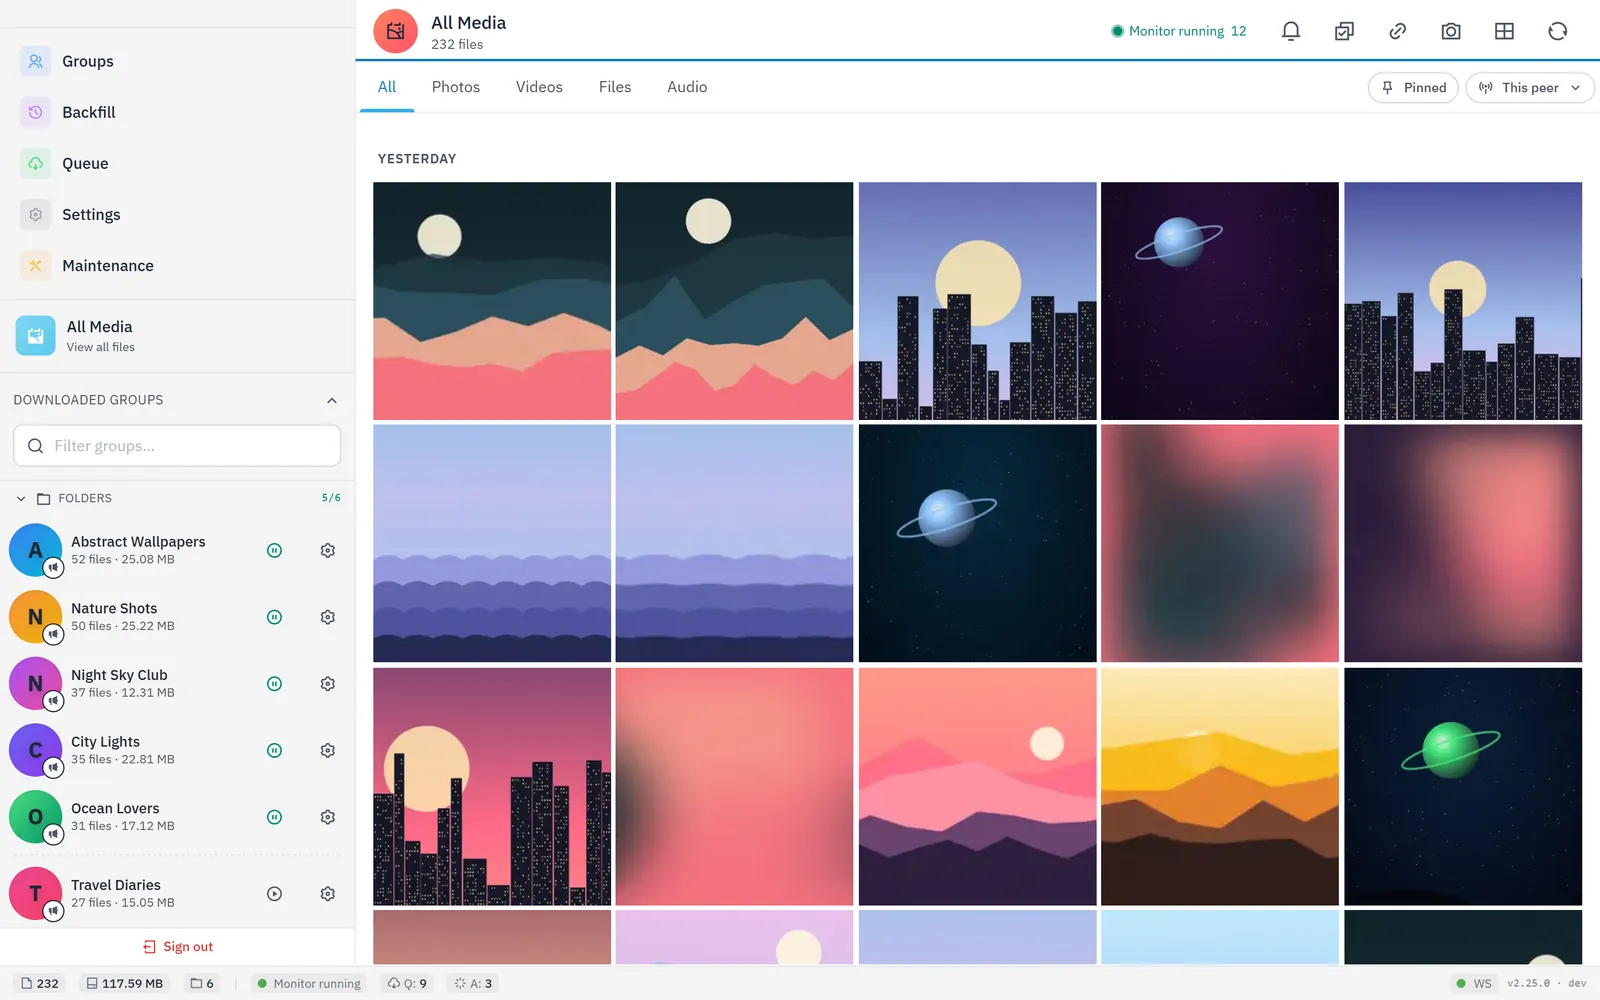
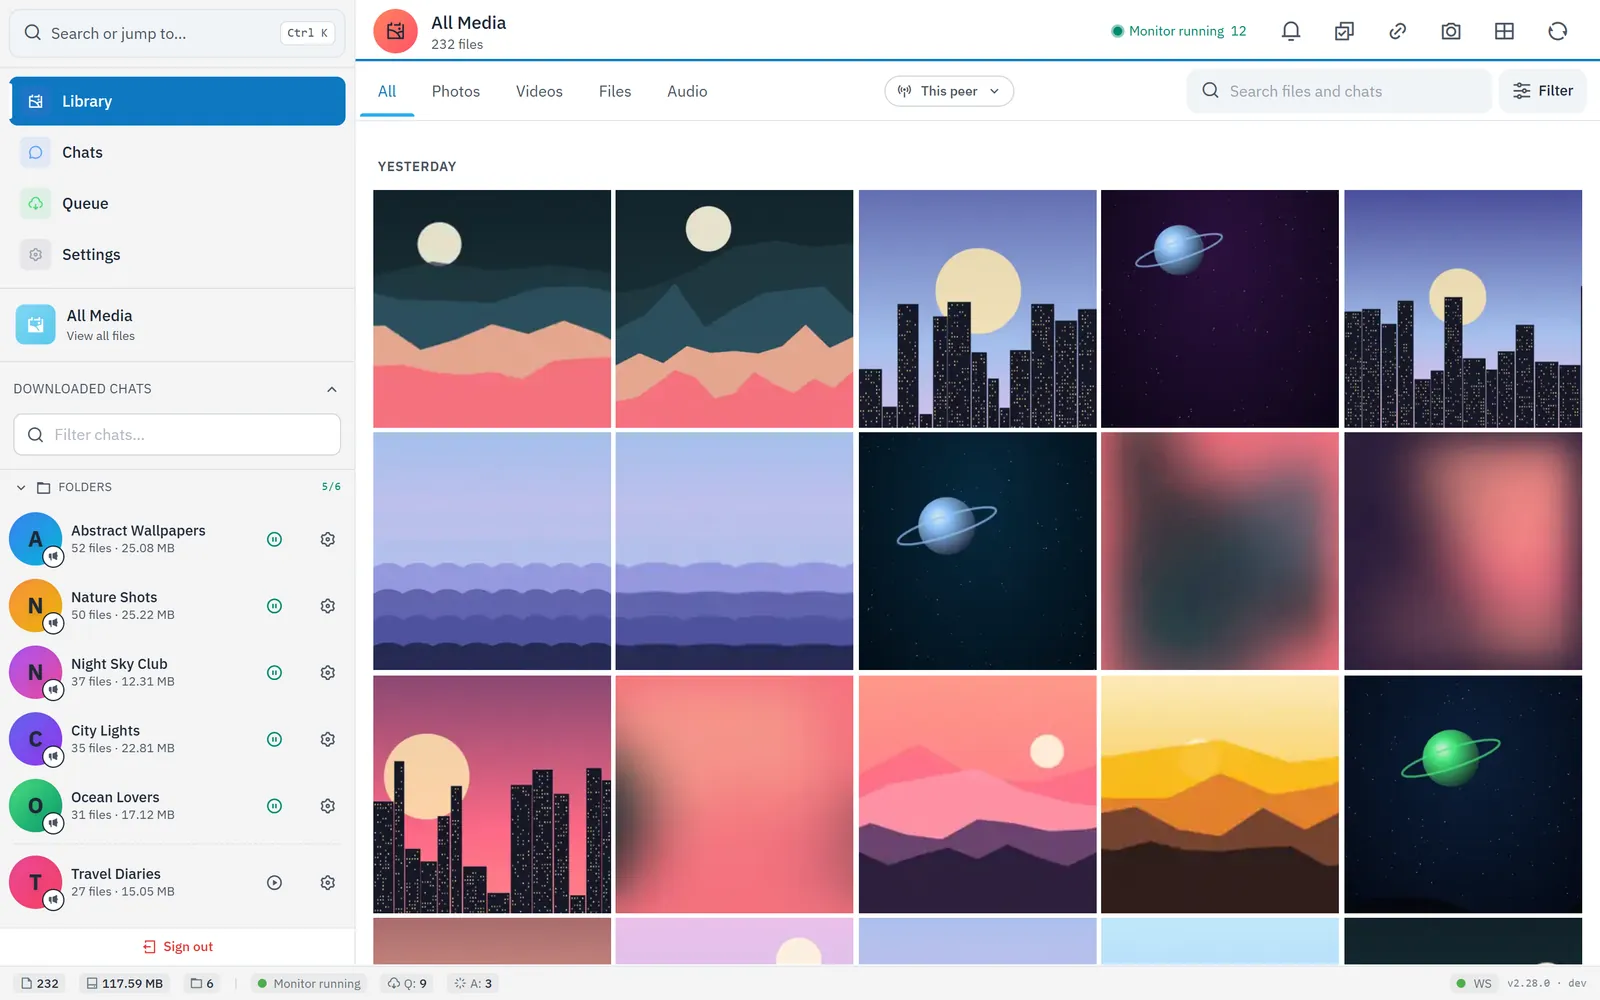
docs(readme): screenshots of the v2.28 layout; fix(web): status-bar chat count no longer drops to 0
The periodic stats push only carries file and disk totals, and the status
bar wrote 0 for the missing chat count. Missing fields now keep their
last value. README shows the four-place layout, chat details, the Ctrl+K
palette and Tools.

diff --git a/src/web/public/js/statusbar.js b/src/web/public/js/statusbar.js
@@ -61,12 +61,17 @@ function applyMonitor(mon) {
 
 function _applyStatsToBar(stats) {
     if (!stats) return;
+    // A field missing from the payload keeps its last value: the periodic
+    // `stats_push` carries files + disk only, and used to reset the chat
+    // count to 0.
     const f = $('status-files');
-    if (f) f.textContent = (stats.totalFiles ?? 0).toLocaleString();
+    if (f && stats.totalFiles != null) f.textContent = Number(stats.totalFiles).toLocaleString();
     const d = $('status-disk');
-    if (d) d.textContent = stats.diskUsageFormatted || formatBytes(stats.diskUsage || 0);
+    if (d && (stats.diskUsageFormatted || stats.diskUsage != null)) {
+        d.textContent = stats.diskUsageFormatted || formatBytes(stats.diskUsage || 0);
+    }
     const g = $('status-groups');
-    if (g) g.textContent = stats.totalGroups ?? 0;
+    if (g && stats.totalGroups != null) g.textContent = stats.totalGroups;
 }
 
 async function refreshStats() {

diff --git a/README.md b/README.md
@@ -50,20 +50,28 @@
 
 <table>
   <tr>
-    <td width="50%"><img src="docs/screenshots/queue.webp" alt="Download queue with live progress, speed and ETA"></td>
-    <td width="50%"><img src="docs/screenshots/chats.webp" alt="Chats page: pick which channels and groups to monitor"></td>
+    <td width="50%"><img src="docs/screenshots/chats.webp" alt="Chats: pick which channels and groups to monitor"></td>
+    <td width="50%"><img src="docs/screenshots/chat-details.webp" alt="Chat details: monitoring, what to download, forwarding, storage"></td>
+  </tr>
+  <tr>
+    <td align="center"><b>Chats</b> — monitor channels, groups and DMs; backfill history</td>
+    <td align="center"><b>Chat details</b> — what to download, forwarding, storage, in one page</td>
+  </tr>
+  <tr>
+    <td><img src="docs/screenshots/queue.webp" alt="Download queue with live progress, speed and ETA"></td>
+    <td><img src="docs/screenshots/palette.webp" alt="Go-anywhere palette (Ctrl+K)"></td>
   </tr>
   <tr>
     <td align="center"><b>Queue</b> — live progress, speed, ETA; pause, retry or cancel any file</td>
-    <td align="center"><b>Chats</b> — choose which channels, groups and DMs to monitor</td>
+    <td align="center"><b>Ctrl+K</b> — jump to any page, tool, setting or chat</td>
   </tr>
   <tr>
     <td><img src="docs/screenshots/viewer.webp" alt="Full-screen media viewer"></td>
-    <td><img src="docs/screenshots/maintenance.webp" alt="Maintenance hub: duplicates, thumbnails, NSFW review, AI faces, backups, cluster"></td>
+    <td><img src="docs/screenshots/tools.webp" alt="Tools: library health, safety and AI, backup and sync, system"></td>
   </tr>
   <tr>
     <td align="center"><b>Viewer</b> — swipe / arrow keys, pin, share link, download</td>
-    <td align="center"><b>Maintenance</b> — duplicates, thumbnails, NSFW review, AI faces, backups, cluster</td>
+    <td align="center"><b>Tools</b> — duplicates, thumbnails, NSFW review, AI faces, backups, cluster</td>
   </tr>
 </table>
 

diff --git a/CHANGELOG.md b/CHANGELOG.md
@@ -4,6 +4,9 @@ All notable changes to this project are documented here. The format is based on 
 
 ## [Unreleased]
 
+### Fixed
+- The status bar's chat count dropped to 0 after the periodic stats update, which only carries file and disk totals. Missing fields now keep their last value.
+
 ## [2.28.0] — 2026-09-29
 
 A new layout with four places — Library, Chats, Queue, Settings — plus a chat details page instead of the settings dialog, one Add box for chats, @usernames and t.me links, an in-app account sign-in, Tools under Settings, and a go-anywhere palette (Ctrl+K). Also the first Go component, tgdl-core, which checks file hashes alongside Node in shadow mode.
